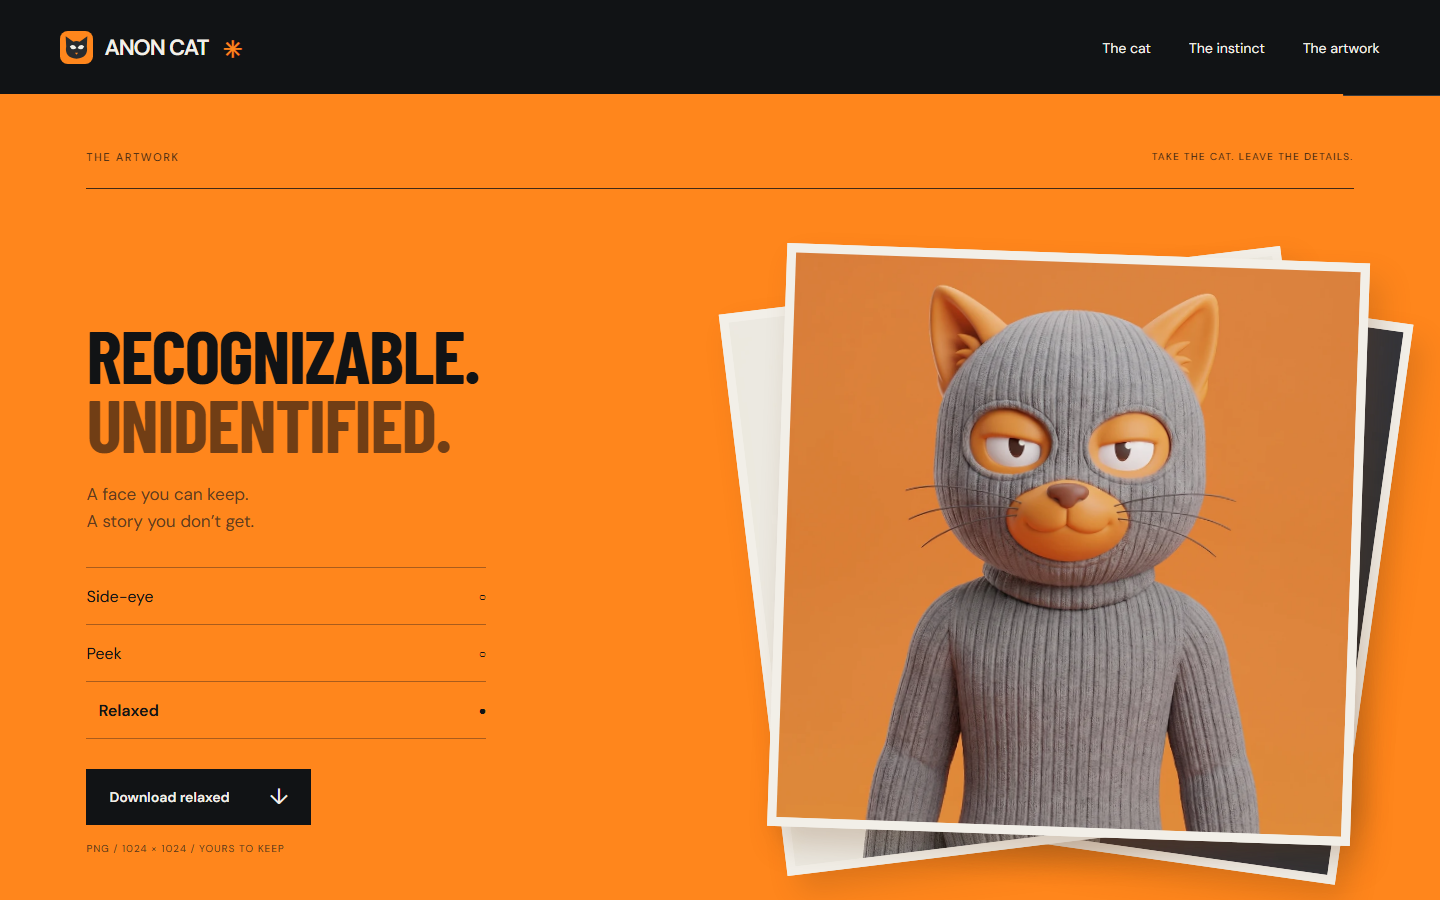
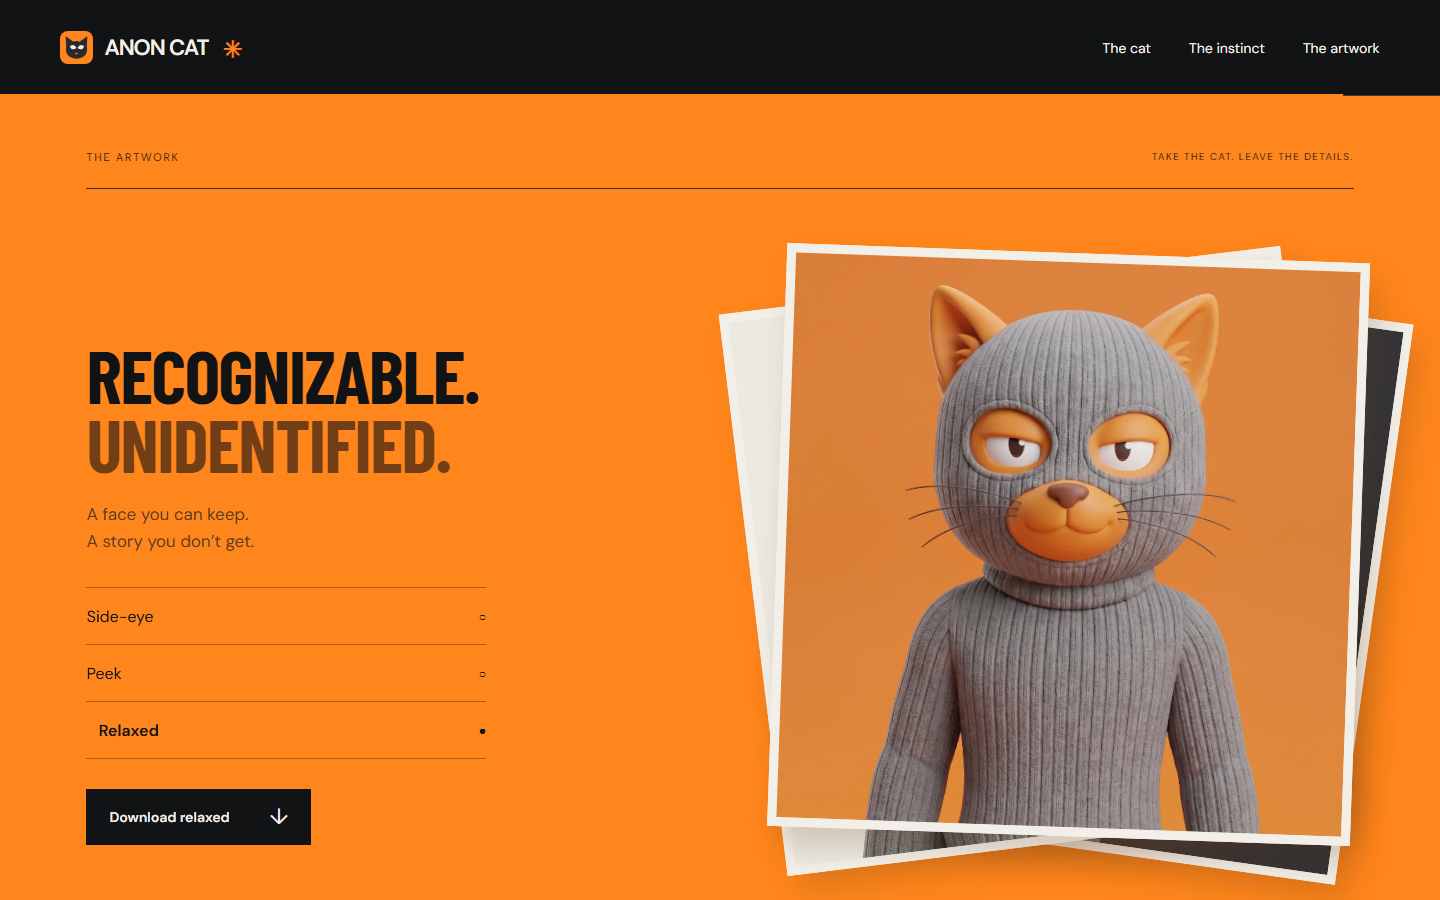
Update Site source

Changed region(s): [[0.0625, 0.3422, 0.3438, 0.6222], [0.0625, 0.6533, 0.2188, 0.9644]]

diff --git a/src/app/globals.css b/src/app/globals.css
@@ -11,7 +11,7 @@
 @media(max-width:700px){.hero-scene .peek-cat{left:48%;top:32%;width:25%;height:35%}}
 .section-top{display:flex;justify-content:space-between;align-items:center;border-bottom:1px solid currentColor;padding-bottom:24px;opacity:.8}.section-top .eyebrow{margin:0;font-size:11px;letter-spacing:1.7px}.tiny-label{font-size:10px;letter-spacing:1.3px}.display-title{font-family:var(--display);font-size:clamp(64px,6.3vw,108px);line-height:.91;letter-spacing:-.02em;font-weight:600;margin:0}.display-title em{font-style:normal;color:var(--orange)}.section-description{font-size:17px;line-height:1.6;color:#676761;margin:24px 0 30px}.file-section{background:var(--paper);color:var(--ink);padding:54px 6% 94px}.file-grid{display:grid;grid-template-columns:1fr 1fr;gap:8%;padding-top:66px;align-items:center}.file-art{position:relative;min-height:660px;display:flex;align-items:flex-end;justify-content:center;isolation:isolate}.file-orange-disc{position:absolute;width:88%;aspect-ratio:1;border-radius:50%;background:var(--orange);z-index:-1;left:3%;top:15%;}.seated-cat{position:relative;width:100%;height:590px;object-fit:contain;object-position:bottom}.file-corner{position:absolute;top:0;left:0;font-size:10px;letter-spacing:1.6px}.art-footnote{position:absolute;bottom:-30px;left:0;font-size:12px;color:#72726b}.character-file{border-top:1px solid #bcbab2;border-bottom:1px solid #bcbab2;margin-bottom:28px}.file-header{padding:17px 0;display:flex;align-items:center;justify-content:space-between;font-size:10px;letter-spacing:1.1px}.file-stamp{border:1px solid #9f9d92;padding:5px 7px;font-size:9px;transform:rotate(-4deg)}dl{margin:0}.file-row{display:grid;grid-template-columns:32% 68%;padding:17px 0;border-top:1px solid #d0cdc4;gap:12px;font-size:14px}.file-row dt{color:#77766d}.file-row dd{margin:0;position:relative;width:max-content;max-width:100%}.file-value{transition:opacity .32s}.redaction-bar{position:absolute;inset:-2px -5px;background:var(--ink);transform-origin:left;transform:scaleX(0);transition:transform .4s cubic-bezier(.2,.8,.2,1)}.is-redacted .redaction-bar{transform:scaleX(1)}.is-redacted .file-value{opacity:0}.file-row:nth-child(2) .redaction-bar{transition-delay:.04s}.file-row:nth-child(3) .redaction-bar{transition-delay:.08s}.file-row:nth-child(4) .redaction-bar{transition-delay:.12s}.file-row:nth-child(5) .redaction-bar{transition-delay:.16s}.file-bottom{display:flex;justify-content:space-between;align-items:center;padding:13px 0;border-top:1px solid #d0cdc4;font-size:9px;letter-spacing:1.2px;color:#75746c}.file-bottom>span:last-child{font-size:22px;color:var(--orange)}.dark-button{background:var(--ink);color:var(--paper);min-height:50px}.dark-button:hover{background:#36383a}
 .ethos-section{padding:55px 6% 92px;background:#1a1d1f}.ethos-section .section-top{color:#9e9f98}.ethos-heading{display:flex;justify-content:space-between;align-items:flex-end;padding:64px 0 50px}.ethos-heading>p{font-size:17px;line-height:1.65;color:#b2b2aa;max-width:270px;margin-bottom:0}.ethos-sequence{display:grid;grid-template-columns:1fr 1fr 1fr;gap:22px;align-items:start}.ethos-frame{margin:0;position:relative;isolation:isolate;height:450px;overflow:hidden;background:#282b2e}.ethos-frame img{width:100%;height:100%;object-fit:cover}.ethos-frame figcaption{position:absolute;z-index:3;bottom:0;left:0;right:0;padding:55px 20px 22px;background:linear-gradient(transparent,rgba(10,12,13,.95));display:flex;flex-direction:column;gap:10px;font-size:15px;line-height:1.4;color:var(--paper)}.panel-frame{height:380px;margin-top:65px}.panel-frame img{object-position:50% 50%;filter:brightness(.9)}.silhouette-frame{background:var(--orange);height:445px}.silhouette-frame img{object-fit:contain;object-position:65% 100%;width:120%;max-width:none;filter:brightness(.65)}.silhouette-occluder{position:absolute;inset:0 0 0 60%;background:#17191b;z-index:2;box-shadow:-12px 0 18px #17191b40}.relaxed-frame{height:380px;margin-top:65px}.relaxed-frame img{filter:brightness(.8)}.monero-editorial{border-top:1px solid var(--line);margin-top:66px;padding-top:42px;display:grid;grid-template-columns:1fr 2fr;gap:10%}.monero-editorial .eyebrow{align-self:start;font-size:10px;letter-spacing:1px;line-height:1.6}.monero-editorial>div{max-width:660px}.monero-editorial>div>p:first-child{font-size:26px;line-height:1.3;margin:0 0 22px;letter-spacing:-.6px}.monero-explanation{font-size:15px;line-height:1.75;color:#aeb0a8;margin:0 0 24px}.text-link{font-size:14px;border-bottom:1px solid #74746c;padding:0 0 7px;display:inline-flex;gap:35px;align-items:center}.text-link:hover{color:var(--orange);border-color:var(--orange)}.external-label{font-size:9px;letter-spacing:1.2px;color:#92958d}
-.artwork-section{background:var(--orange);color:var(--ink);padding:54px 6% 78px}.artwork-grid{display:grid;grid-template-columns:1fr 1fr;gap:8%;padding-top:64px;align-items:center}.artwork-copy .display-title{font-size:clamp(60px,5.2vw,100px)}.artwork-copy .display-title>span{color:#713e15}.artwork-copy .section-description{color:#633b1e}.portrait-options{margin:32px 0 30px;max-width:400px;border-bottom:1px solid #aa5c1c}.portrait-options button{display:flex;align-items:center;gap:18px;min-height:57px;padding:12px 0;border:0;border-top:1px solid #aa5c1c;background:transparent;width:100%;text-align:left;font-size:16px;color:var(--ink)}.portrait-options button[aria-pressed=true]{font-weight:600}.portrait-indicator{margin-left:auto;font-size:13px}.download-button{background:var(--ink);color:var(--paper);gap:40px}.download-button:hover{background:#343638}.download-note{font-size:10px;letter-spacing:1px;color:#693c1b;margin-top:17px}.selected-portrait{margin:0;transform:rotate(2deg)}.portrait-image{border:9px solid var(--paper);box-shadow:15px 20px 0 #743e1525;aspect-ratio:1;overflow:hidden}.portrait-image img{width:100%;height:100%;object-fit:cover}.selected-portrait figcaption{display:flex;justify-content:space-between;gap:20px;padding-top:24px;font-size:10px;letter-spacing:1px}.selected-portrait figcaption>span:last-child{font-size:12px;letter-spacing:0;text-align:right;max-width:205px}.artwork-section button:focus-visible,.artwork-section a:focus-visible{outline-color:var(--ink)}
+.artwork-section{background:var(--orange);color:var(--ink);padding:54px 6% 78px}.artwork-grid{display:grid;grid-template-columns:1fr 1fr;gap:8%;padding-top:64px;align-items:center}.artwork-copy .display-title{font-size:clamp(60px,5.2vw,100px)}.artwork-copy .display-title>span{color:#713e15}.artwork-copy .section-description{color:#633b1e}.portrait-options{margin:32px 0 30px;max-width:400px;border-bottom:1px solid #aa5c1c}.portrait-options button{display:flex;align-items:center;gap:18px;min-height:57px;padding:12px 0;border:0;border-top:1px solid #aa5c1c;background:transparent;width:100%;text-align:left;font-size:16px;color:var(--ink)}.portrait-options button[aria-pressed=true]{font-weight:600}.portrait-indicator{margin-left:auto;font-size:13px}.download-button{background:var(--ink);color:var(--paper);gap:40px}.download-button:hover{background:#343638}.selected-portrait{margin:0;transform:rotate(2deg)}.portrait-image{border:9px solid var(--paper);box-shadow:15px 20px 0 #743e1525;aspect-ratio:1;overflow:hidden}.portrait-image img{width:100%;height:100%;object-fit:cover}.selected-portrait figcaption{display:flex;justify-content:space-between;gap:20px;padding-top:24px;font-size:10px;letter-spacing:1px}.selected-portrait figcaption>span:last-child{font-size:12px;letter-spacing:0;text-align:right;max-width:205px}.artwork-section button:focus-visible,.artwork-section a:focus-visible{outline-color:var(--ink)}
 .footer{padding:54px 6% 25px;background:var(--ink);position:relative;overflow:hidden}.footer-top{display:flex;align-items:center;justify-content:space-between;padding-bottom:48px;border-bottom:1px solid var(--line);position:relative;isolation:isolate}.footer-top>p{font-family:var(--display);font-size:72px;line-height:1;margin:0;padding-right:19%;letter-spacing:-.02em}.footer-top>p span{color:var(--orange)}.footer-cat{position:absolute;right:0;bottom:-4px;width:130px;height:155px;object-fit:contain;object-position:bottom;z-index:-1}.footer-bottom{display:flex;justify-content:space-between;align-items:center;padding-top:24px;color:#92948e;font-size:10px;gap:20px}.footer-links{display:flex;gap:25px;color:var(--paper);font-size:12px}.footer-links a:hover{color:var(--orange)}
 @media(min-width:1700px){.file-section,.ethos-section,.artwork-section,.footer{padding-left:8%;padding-right:8%}.file-art{height:780px}.seated-cat{height:720px}.ethos-frame{height:510px}.panel-frame,.relaxed-frame{height:450px}}
 @media(max-width:1000px){.display-title{font-size:64px}.file-grid{gap:5%}.file-art{min-height:510px}.seated-cat{height:480px}.file-row{font-size:12px;grid-template-columns:30% 70%;gap:8px}.ethos-frame{height:340px}.panel-frame,.relaxed-frame{height:290px;margin-top:40px}.ethos-frame figcaption{font-size:13px;padding:50px 13px 18px}.monero-editorial{gap:5%}.artwork-copy .display-title{font-size:56px}.footer-top>p{font-size:55px;padding-right:14%}.footer-cat{width:105px;height:130px}}

diff --git a/src/components/sections/ArtworkPack.tsx b/src/components/sections/ArtworkPack.tsx
@@ -30,7 +30,7 @@ export default function ArtworkPack(){
     return()=>{context?.revert();document.removeEventListener('anon-cat:freeze',freeze);};
   },[selected]);
   return <section ref={root} className="artwork-section" id="artwork" data-selection={portrait.id} aria-labelledby="artwork-heading"><div className="section-top"><span className="eyebrow">THE ARTWORK</span><span className="tiny-label">TAKE THE CAT. LEAVE THE DETAILS.</span></div>
-    <div className="artwork-grid"><div className="artwork-copy"><h2 className="display-title" id="artwork-heading">RECOGNIZABLE.<br/><span>UNIDENTIFIED.</span></h2><p className="section-description">A face you can keep.<br/>A story you don’t get.</p><div className="portrait-options" role="group" aria-label="Choose a cat portrait">{site.portraits.map((p,i)=><button key={p.id} aria-pressed={selected===i} onClick={()=>setSelected(i)}>{p.label}<span className="portrait-indicator" aria-hidden="true">{selected===i?'●':'○'}</span></button>)}</div><a className="button orange-button download-button" href={portrait.src} download={`anon-cat-${portrait.id}.png`}>Download {portrait.label.toLowerCase()}<span aria-hidden="true">↓</span></a><p className="download-note">PNG / 1024 × 1024 / YOURS TO KEEP</p></div>
+    <div className="artwork-grid"><div className="artwork-copy"><h2 className="display-title" id="artwork-heading">RECOGNIZABLE.<br/><span>UNIDENTIFIED.</span></h2><p className="section-description">A face you can keep.<br/>A story you don’t get.</p><div className="portrait-options" role="group" aria-label="Choose a cat portrait">{site.portraits.map((p,i)=><button key={p.id} aria-pressed={selected===i} onClick={()=>setSelected(i)}>{p.label}<span className="portrait-indicator" aria-hidden="true">{selected===i?'●':'○'}</span></button>)}</div><a className="button orange-button download-button" href={portrait.src} download={`anon-cat-${portrait.id}.png`}>Download {portrait.label.toLowerCase()}<span aria-hidden="true">↓</span></a></div>
       <figure className="selected-portrait"><div className="portrait-stage">{site.portraits.map((p,i)=><div className="portrait-print portrait-image" key={p.id} data-active={i===selected} aria-hidden={i!==selected}><DeferredImage src={p.src.replace('.png','.webp')} alt={i===selected?`ANON CAT ${p.label.toLowerCase()} portrait. ${p.description}`:''} width="1024" height="1024"/></div>)}</div><figcaption><span>{portrait.label.toUpperCase()}</span><span>{portrait.description}</span></figcaption><span className="sr-only" role="status">{portrait.label} portrait selected.</span></figure>
     </div>
   </section>;

diff --git a/docs/test-results.md b/docs/test-results.md
@@ -1,5 +1,7 @@
 # Production verification — 2026-10-01
 
+The technical note below the download button was removed. Build, strict TypeScript, lint and the existing portrait-download/mobile-layout checks passed. All three actual PNG downloads remain valid.
+
 A final decorative-number sweep removed subject/file serial IDs, the background digits and the numerical hero footer ornament. The portrait choices already use names only. Build, strict TypeScript, lint and six relevant existing checks passed, covering automatic hero motion, rapid portrait changes, redaction, actual PNG downloads and mobile/desktop layout. The portrait-options-clean.png screenshot shows the unnumbered picker.
 
 The privacy scene's complete progress indicator was subsequently removed. Build, strict TypeScript, lint and six relevant existing browser checks passed. These verify the same forward/reverse scene timing, shutter transitions, resize cleanup, short desktop scene bounds and artwork navigation. No visible progress widget remains in this section.
